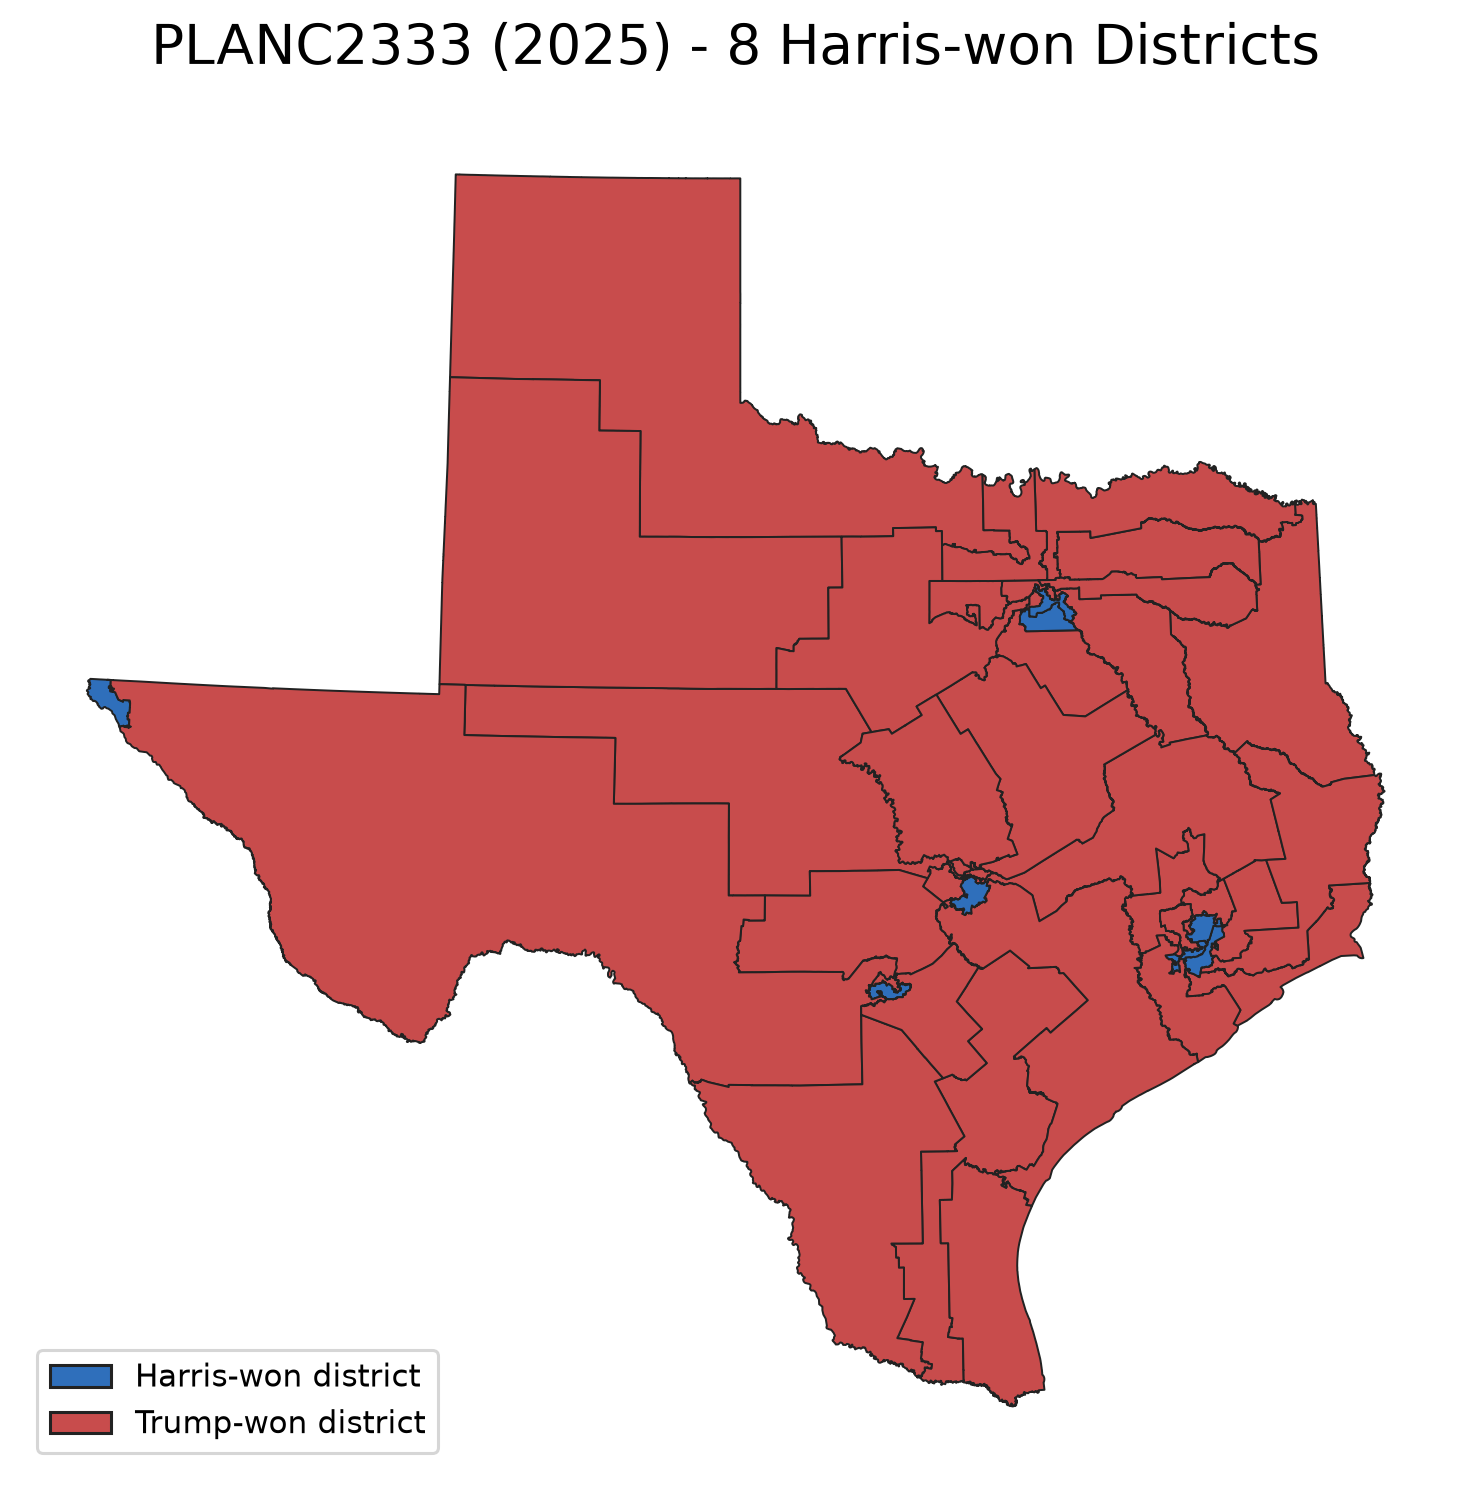
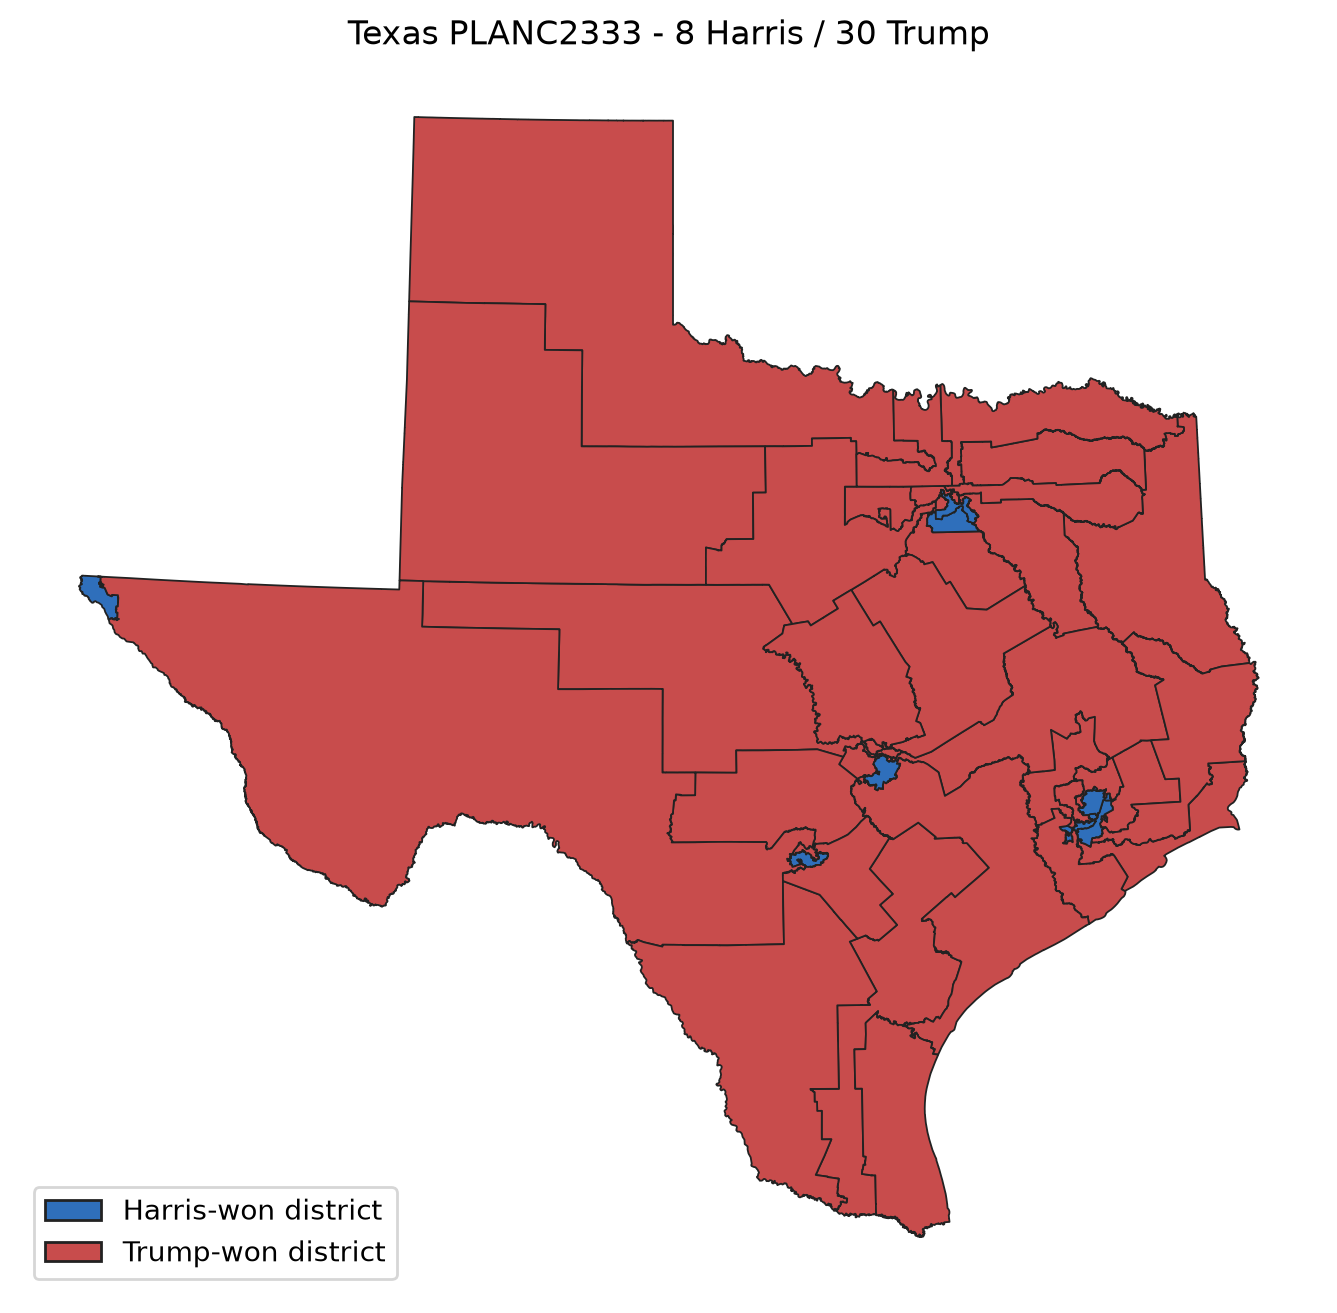
Persist partisan Texas map generation

diff --git a/src/analysis/make_texas_final_figures.py b/src/analysis/make_texas_final_figures.py
@@ -1,4 +1,5 @@
 from pathlib import Path
+import re
 
 import geopandas as gpd
 import matplotlib.pyplot as plt
@@ -271,18 +272,22 @@ plt.close(fig)
 # MAPS
 # ============================================================
 
+DOC_FIGURES = ROOT / "docs" / "outputs" / "figures"
+DOC_FIGURES.mkdir(parents=True, exist_ok=True)
+
 precincts = gpd.read_file(
-    ROOT
-    / "data"
-    / "processed"
-    / "tx_precincts_validated.gpkg",
+    ROOT / "data" / "processed" / "tx_precincts_validated.gpkg",
     layer="precincts",
 )
 
 neutral = gpd.read_file(
-    ANALYSIS
-    / "texas_representative_neutral_plan.gpkg",
+    ANALYSIS / "texas_representative_neutral_plan.gpkg",
     layer="representative_neutral",
+)
+
+blocks = pd.read_csv(
+    ROOT / "data" / "processed" / "tx_blocks_master.csv",
+    low_memory=False,
 )
 
 plan2025 = gpd.read_file(
@@ -295,24 +300,163 @@ plan2025 = gpd.read_file(
 )
 
 if plan2025.crs != precincts.crs:
-    plan2025 = plan2025.to_crs(
-        precincts.crs
+    plan2025 = plan2025.to_crs(precincts.crs)
+
+
+def district_key(value):
+    if pd.isna(value):
+        return None
+
+    numbers = re.findall(r"\d+", str(value))
+
+    if not numbers:
+        return None
+
+    return int(numbers[-1])
+
+
+def dissolve_with_votes(gdf, district_col):
+    plan = (
+        gdf
+        .dissolve(
+            by=district_col,
+            aggfunc={
+                "G24PREDHAR": "sum",
+                "G24PRERTRU": "sum",
+            },
+        )
+        .reset_index()
+    )
+
+    plan["winner"] = np.where(
+        plan["G24PREDHAR"] > plan["G24PRERTRU"],
+        "Harris",
+        "Trump",
+    )
+
+    return plan
+
+
+current_districts = dissolve_with_votes(
+    precincts,
+    "CONG_DIST",
+)
+
+neutral_districts = dissolve_with_votes(
+    neutral,
+    "NEUTRAL_DIST",
+)
+
+
+# Exact block-level partisan scoring for PLANC2333.
+blocks["_district_key"] = blocks["C2333"].map(
+    district_key
+)
+
+block_votes = (
+    blocks
+    .groupby("_district_key")[
+        ["G24PREDHAR", "G24PRERTRU"]
+    ]
+    .sum()
+    .reset_index()
+)
+
+enacted_2025 = (
+    plan2025
+    .dissolve(by="District")
+    .reset_index()
+)
+
+enacted_2025["_district_key"] = (
+    enacted_2025["District"].map(district_key)
+)
+
+enacted_2025 = enacted_2025.merge(
+    block_votes,
+    on="_district_key",
+    how="left",
+    validate="one_to_one",
+)
+
+enacted_2025["winner"] = np.where(
+    enacted_2025["G24PREDHAR"]
+    > enacted_2025["G24PRERTRU"],
+    "Harris",
+    "Trump",
+)
+
+
+def harris_seats(plan):
+    return int(
+        (plan["winner"] == "Harris").sum()
     )
 
 
-def save_map(boundaries, title, filename):
+assert len(current_districts) == 38
+assert len(neutral_districts) == 38
+assert len(enacted_2025) == 38
+
+assert harris_seats(current_districts) == 11
+assert harris_seats(neutral_districts) == 13
+assert harris_seats(enacted_2025) == 8
+
+
+COLORS = {
+    "Harris": "#2f6fbb",
+    "Trump": "#c84c4c",
+}
+
+
+def save_partisan_map(plan, title, filename):
     fig, ax = plt.subplots(figsize=(9, 8))
 
-    boundaries.boundary.plot(
+    plan.plot(
         ax=ax,
-        linewidth=0.8,
+        color=plan["winner"].map(COLORS),
+        edgecolor="#222222",
+        linewidth=0.65,
     )
 
     ax.set_title(title)
     ax.set_axis_off()
 
+    legend_handles = [
+        plt.Rectangle(
+            (0, 0),
+            1,
+            1,
+            facecolor=COLORS["Harris"],
+            edgecolor="#222222",
+            label="Harris-won district",
+        ),
+        plt.Rectangle(
+            (0, 0),
+            1,
+            1,
+            facecolor=COLORS["Trump"],
+            edgecolor="#222222",
+            label="Trump-won district",
+        ),
+    ]
+
+    ax.legend(
+        handles=legend_handles,
+        loc="lower left",
+        frameon=True,
+    )
+
+    output_path = FIGURES / filename
+    docs_path = DOC_FIGURES / filename
+
     fig.savefig(
-        FIGURES / filename,
+        output_path,
+        dpi=200,
+        bbox_inches="tight",
+    )
+
+    fig.savefig(
+        docs_path,
         dpi=200,
         bbox_inches="tight",
     )
@@ -320,40 +464,21 @@ def save_map(boundaries, title, filename):
     plt.close(fig)
 
 
-current_districts = (
-    precincts
-    .dissolve(by="CONG_DIST")
-)
-
-neutral_districts = (
-    neutral
-    .dissolve(by="NEUTRAL_DIST")
-)
-
-if "District" in plan2025.columns:
-    enacted_2025 = (
-        plan2025
-        .dissolve(by="District")
-    )
-else:
-    enacted_2025 = plan2025
-
-
-save_map(
+save_partisan_map(
     current_districts,
-    "Current Texas Congressional Map",
+    "Current Texas Congressional Map - 11 Harris / 27 Trump",
     "texas_current_map.png",
 )
 
-save_map(
+save_partisan_map(
     neutral_districts,
-    "Representative Neutral Plan — Step 26,999",
+    "Representative Neutral Plan - 13 Harris / 25 Trump",
     "texas_representative_neutral_map.png",
 )
 
-save_map(
+save_partisan_map(
     enacted_2025,
-    "Texas PLANC2333 — 2025",
+    "Texas PLANC2333 - 8 Harris / 30 Trump",
     "texas_planc2333_map.png",
 )
 
@@ -368,3 +493,11 @@ print(mm_fig)
 print(FIGURES / "texas_current_map.png")
 print(FIGURES / "texas_representative_neutral_map.png")
 print(FIGURES / "texas_planc2333_map.png")
+
+print()
+print("Partisan map validation")
+print("=======================")
+print("Current Harris seats:", harris_seats(current_districts))
+print("Neutral Harris seats:", harris_seats(neutral_districts))
+print("PLANC2333 Harris seats:", harris_seats(enacted_2025))
+
